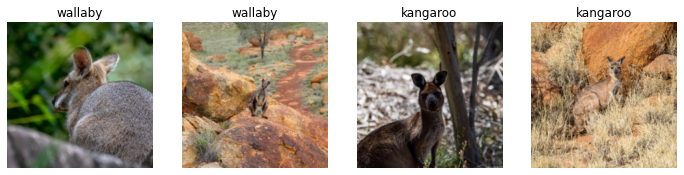
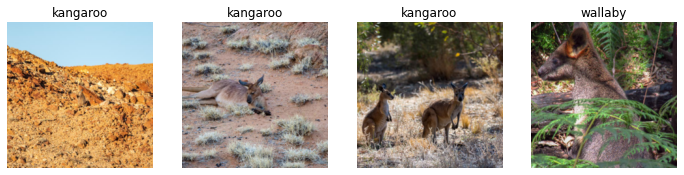
Update data tutorial ims

diff --git a/_posts/2022-01-01-fastai-data-tutorial-image-classification.md b/_posts/2022-01-01-fastai-data-tutorial-image-classification.md
@@ -28,10 +28,7 @@ To generate a dataset, you'll need to create a `DataBlock` and a `DataLoader`. T
 
 
 ```python
-if sys.platform == 'linux':
-    path = Path(r'/home/julius/data/WallabiesAndRoosFullSize')
-else:
-    path = Path(r'E:/Data/Raw/WallabiesAndRoosFullSize')
+path = Path(os.getenv('DATA')) / r'KangWall512Split'
 ```
 
 First, you'll need to specify what the input and labels look like. For standard use-cases the tools you need are already built into FastAI. For image data, you use an `ImageBlock` and for categorical labels you use a `CategoryBlock`.
@@ -56,7 +53,7 @@ all_images[:5]
 
 
 
-    (#5) [Path('/home/julius/data/WallabiesAndRoosFullSize/test/wallaby/wallaby-376.jpg'),Path('/home/julius/data/WallabiesAndRoosFullSize/test/wallaby/wallaby-1735.jpg'),Path('/home/julius/data/WallabiesAndRoosFullSize/test/wallaby/wallaby-764.jpg'),Path('/home/julius/data/WallabiesAndRoosFullSize/test/wallaby/wallaby-754.jpg'),Path('/home/julius/data/WallabiesAndRoosFullSize/test/wallaby/wallaby-758.jpg')]
+    (#5) [Path('/home/julius/data/KangWall512Split/test/wallaby/wallaby-376.jpg'),Path('/home/julius/data/KangWall512Split/test/wallaby/wallaby-1735.jpg'),Path('/home/julius/data/KangWall512Split/test/wallaby/wallaby-463.jpg'),Path('/home/julius/data/KangWall512Split/test/wallaby/wallaby-282.jpg'),Path('/home/julius/data/KangWall512Split/test/wallaby/wallaby-274.jpg')]
 
 
 
@@ -91,8 +88,8 @@ struct(splitter(all_images))
 
 
 
-    {tuple: [{list: [int, int, int, '...3653 total']},
-      {list: [int, int, int, '...567 total']}]}
+    {tuple: [{list: [int, int, int, '...3094 total']},
+      {list: [int, int, int, '...886 total']}]}
 
 
 
@@ -119,9 +116,9 @@ dblock.summary(path)
 ```
 
     Setting-up type transforms pipelines
-    Collecting items from /home/julius/data/WallabiesAndRoosFullSize
-    Found 4721 items
-    2 datasets of sizes 3653,567
+    Collecting items from /home/julius/data/KangWall512Split
+    Found 4716 items
+    2 datasets of sizes 3094,886
     Setting up Pipeline: PILBase.create
     Setting up Pipeline: parent_label -> Categorize -- {'vocab': None, 'sort': True, 'add_na': False}
     Setting up Pipeline: PILBase.create
@@ -130,23 +127,23 @@ dblock.summary(path)
     Building one sample
       Pipeline: PILBase.create
         starting from
-          /home/julius/data/WallabiesAndRoosFullSize/train/wallaby/wallaby-385.jpg
+          /home/julius/data/KangWall512Split/train/wallaby/wallaby-558.jpg
         applying PILBase.create gives
-          PILImage mode=RGB size=4000x4000
+          PILImage mode=RGB size=512x512
       Pipeline: parent_label -> Categorize -- {'vocab': None, 'sort': True, 'add_na': False}
         starting from
-          /home/julius/data/WallabiesAndRoosFullSize/train/wallaby/wallaby-385.jpg
+          /home/julius/data/KangWall512Split/train/wallaby/wallaby-558.jpg
         applying parent_label gives
           wallaby
         applying Categorize -- {'vocab': None, 'sort': True, 'add_na': False} gives
           TensorCategory(1)
     
-    Final sample: (PILImage mode=RGB size=4000x4000, TensorCategory(1))
+    Final sample: (PILImage mode=RGB size=512x512, TensorCategory(1))
     
     
-    Collecting items from /home/julius/data/WallabiesAndRoosFullSize
-    Found 4721 items
-    2 datasets of sizes 3653,567
+    Collecting items from /home/julius/data/KangWall512Split
+    Found 4716 items
+    2 datasets of sizes 3094,886
     Setting up Pipeline: PILBase.create
     Setting up Pipeline: parent_label -> Categorize -- {'vocab': None, 'sort': True, 'add_na': False}
     Setting up Pipeline: PILBase.create
@@ -159,7 +156,7 @@ dblock.summary(path)
     Applying item_tfms to the first sample:
       Pipeline: Resize -- {'size': (224, 224), 'method': 'crop', 'pad_mode': 'reflection', 'resamples': (2, 0), 'p': 1.0} -> ToTensor
         starting from
-          (PILImage mode=RGB size=4000x4000, TensorCategory(1))
+          (PILImage mode=RGB size=512x512, TensorCategory(1))
         applying Resize -- {'size': (224, 224), 'method': 'crop', 'pad_mode': 'reflection', 'resamples': (2, 0), 'p': 1.0} gives
           (PILImage mode=RGB size=224x224, TensorCategory(1))
         applying ToTensor gives
@@ -306,7 +303,7 @@ len(wallaby_files), len(kangaroo_files)
 
 
 
-    (1465, 2188)
+    (1242, 1852)
 
 
 
@@ -325,7 +322,7 @@ len(oversampled_files), len(val_files)
 
 
 
-    (5118, 567)
+    (4336, 886)
 
 
 
@@ -351,7 +348,7 @@ std = torch.stack(stds).mean(dim=0)
 print(mean, std)
 ```
 
-    TensorImage([0.4953, 0.4536, 0.4037], device='cuda:0') TensorImage([0.2454, 0.2282, 0.2235], device='cuda:0')
+    TensorImage([0.5275, 0.4787, 0.4250], device='cuda:0') TensorImage([0.2351, 0.2233, 0.2291], device='cuda:0')
     
 
 
@@ -394,7 +391,7 @@ dls
 
 
 
-    <fastai.data.core.DataLoaders at 0x7f39c6b51220>
+    <fastai.data.core.DataLoaders at 0x7f7f1c1d0af0>
 
 
 
@@ -408,8 +405,8 @@ dls.loaders
 
 
 
-    [<fastai.data.core.TfmdDL at 0x7f39c6805eb0>,
-     <fastai.data.core.TfmdDL at 0x7f39c4b05dc0>]
+    [<fastai.data.core.TfmdDL at 0x7f7ffc3a22e0>,
+     <fastai.data.core.TfmdDL at 0x7f7ffc38e5b0>]
 
 
 
@@ -426,7 +423,7 @@ dl
 
 
 
-    <fastai.data.core.TfmdDL at 0x7f39c6805eb0>
+    <fastai.data.core.TfmdDL at 0x7f7ffc3a22e0>
 
 
 
@@ -497,8 +494,8 @@ item[1]
 
 
 
-    TensorCategory([0, 0, 0, 0, 0, 1, 1, 1, 0, 0, 0, 1, 0, 1, 0, 0, 0, 1, 0, 0, 1, 1, 0, 0,
-            1, 0, 0, 1, 1, 0, 1, 0, 1, 1, 0, 1, 0, 0, 0, 1, 0, 0, 0, 1, 0, 1, 0, 1,
-            0, 0, 0, 0, 0, 1, 1, 1, 1, 1, 1, 0, 1, 0, 0, 0], device='cuda:0')
+    TensorCategory([1, 0, 0, 0, 0, 0, 0, 1, 1, 1, 0, 0, 0, 0, 0, 1, 0, 1, 1, 1, 1, 0, 0, 0,
+            1, 1, 0, 1, 0, 1, 0, 1, 1, 0, 1, 1, 1, 0, 0, 0, 1, 0, 0, 0, 0, 0, 0, 0,
+            1, 0, 1, 0, 0, 0, 1, 0, 1, 0, 1, 1, 1, 0, 0, 0], device='cuda:0')
 
 
